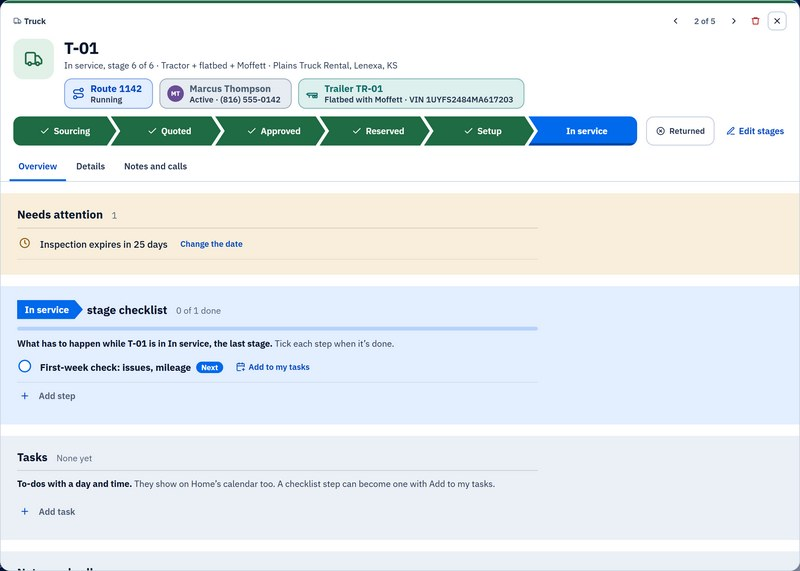
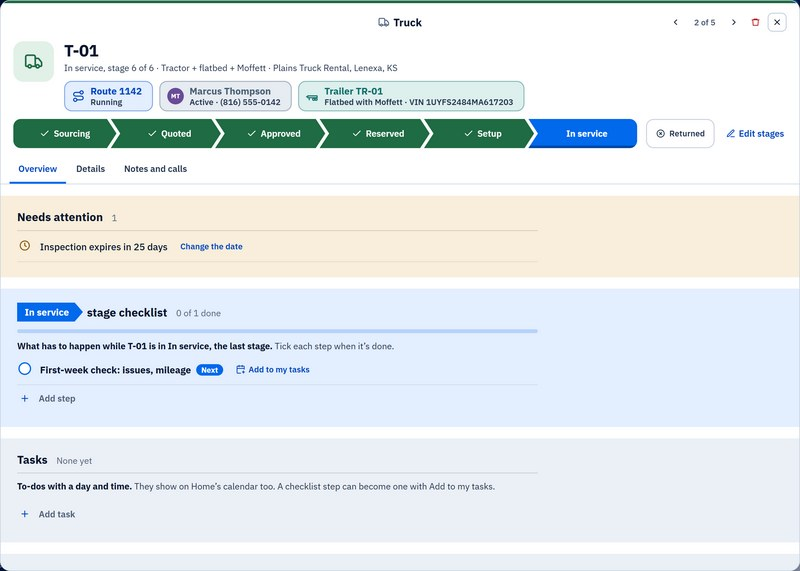
Tracker pictures: the new Driver and Truck pages
The app now shows what a record page is in the middle of its top bar, bigger
(the owner, 2026-10-20). New pictures of the Driver and Truck pages for the
Tracker page's slideshow and the homepage's fan of cards; the highlights were
measured again.

diff --git a/tracker.html b/tracker.html
@@ -55,17 +55,17 @@
       </div>
       <div class="slide" id="slide-1" role="tabpanel" aria-roledescription="slide" aria-label="2 of 3: Drivers">
         <div><span class="kicker">Drivers</span><h3>Vetted before day one</h3>
-          <div class="topics"><button type="button" class="topic on" aria-pressed="true" data-r="[0.16,52.98,99.68,46.69]" data-f="0.235,0.75,2.1"><b>Every check, every driver</b><span>Driving record, background check, drug test and DOT medical card, ticked off one by one.</span><i class="time"></i></button><button type="button" class="topic" aria-pressed="false" data-r="[0.16,36.71,99.68,14.27]" data-f="0.2,0.435,2.4"><b>Credentials watched</b><span>CDLs and medical cards are flagged 30 days before they expire.</span><i class="time"></i></button></div>
+          <div class="topics"><button type="button" class="topic on" aria-pressed="true" data-r="[0.16,53.42,99.68,46.24]" data-f="0.235,0.75,2.1"><b>Every check, every driver</b><span>Driving record, background check, drug test and DOT medical card, ticked off one by one.</span><i class="time"></i></button><button type="button" class="topic" aria-pressed="false" data-r="[0.16,37.16,99.68,14.27]" data-f="0.2,0.435,2.4"><b>Credentials watched</b><span>CDLs and medical cards are flagged 30 days before they expire.</span><i class="time"></i></button></div>
           <div class="tdots" role="group" aria-label="Drivers: points"><button type="button" class="tdot" aria-pressed="true" aria-label="Point 1 of 2: Every check, every driver"><i></i></button><button type="button" class="tdot" aria-pressed="false" aria-label="Point 2 of 2: Credentials watched"><i></i></button></div></div>
         <figure class="win"><div class="tb"><img src="assets/img/wave-small.png" alt="" width="81" height="22">SolidWave Tracker<span class="ctl" aria-hidden="true">&#8211;&nbsp;&nbsp;&#9633;&nbsp;&nbsp;&#215;</span></div>
-          <div class="pic"><div class="zoom"><img src="assets/img/app/slide-drivers.png" alt="Drivers in SolidWave Tracker" width="1260" height="900" loading="lazy"><span class="lit" style="left:0.16%;top:52.98%;width:99.68%;height:46.69%"></span></div></div></figure>
+          <div class="pic"><div class="zoom"><img src="assets/img/app/slide-drivers.png" alt="Drivers in SolidWave Tracker" width="1260" height="900" loading="lazy"><span class="lit" style="left:0.16%;top:53.42%;width:99.68%;height:46.24%"></span></div></div></figure>
       </div>
       <div class="slide" id="slide-2" role="tabpanel" aria-roledescription="slide" aria-label="3 of 3: Fleet">
         <div><span class="kicker">Fleet</span><h3>Equipment ready to roll</h3>
-          <div class="topics"><button type="button" class="topic on" aria-pressed="true" data-r="[1.19,19.71,97.62,6.44]" data-f="0.48,0.23,1.6"><b>Ready before it rolls</b><span>Every unit goes through the same steps, from sourcing to in service.</span><i class="time"></i></button><button type="button" class="topic" aria-pressed="false" data-r="[1.03,5.89,97.3,8.89]" data-f="0.27,0.11,1.8"><b>Every unit on record</b><span>Each truck and trailer with its configuration, status and paperwork.</span><i class="time"></i></button></div>
+          <div class="topics"><button type="button" class="topic on" aria-pressed="true" data-r="[1.19,20.16,97.62,6.44]" data-f="0.48,0.23,1.6"><b>Ready before it rolls</b><span>Every unit goes through the same steps, from sourcing to in service.</span><i class="time"></i></button><button type="button" class="topic" aria-pressed="false" data-r="[1.03,6.33,97.3,8.89]" data-f="0.27,0.11,1.8"><b>Every unit on record</b><span>Each truck and trailer with its configuration, status and paperwork.</span><i class="time"></i></button></div>
           <div class="tdots" role="group" aria-label="Fleet: points"><button type="button" class="tdot" aria-pressed="true" aria-label="Point 1 of 2: Ready before it rolls"><i></i></button><button type="button" class="tdot" aria-pressed="false" aria-label="Point 2 of 2: Every unit on record"><i></i></button></div></div>
         <figure class="win"><div class="tb"><img src="assets/img/wave-small.png" alt="" width="81" height="22">SolidWave Tracker<span class="ctl" aria-hidden="true">&#8211;&nbsp;&nbsp;&#9633;&nbsp;&nbsp;&#215;</span></div>
-          <div class="pic"><div class="zoom"><img src="assets/img/app/slide-equipment.png" alt="Fleet in SolidWave Tracker" width="1260" height="900" loading="lazy"><span class="lit" style="left:1.19%;top:19.71%;width:97.62%;height:6.44%"></span></div></div></figure>
+          <div class="pic"><div class="zoom"><img src="assets/img/app/slide-equipment.png" alt="Fleet in SolidWave Tracker" width="1260" height="900" loading="lazy"><span class="lit" style="left:1.19%;top:20.16%;width:97.62%;height:6.44%"></span></div></div></figure>
       </div>
       </div>
     </div>
